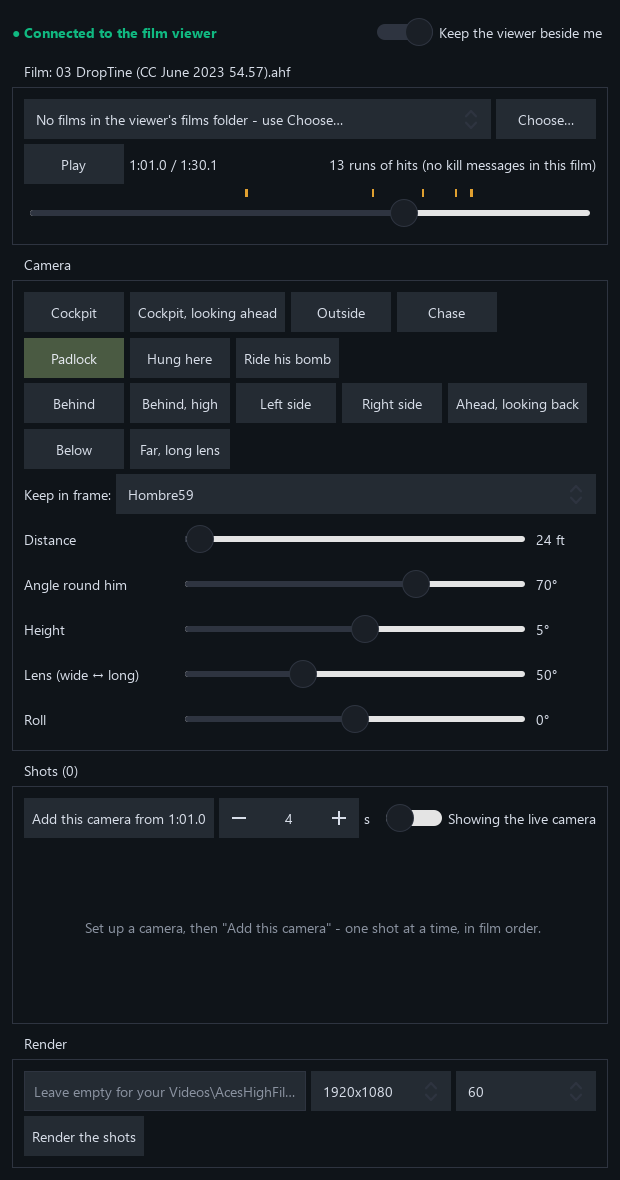
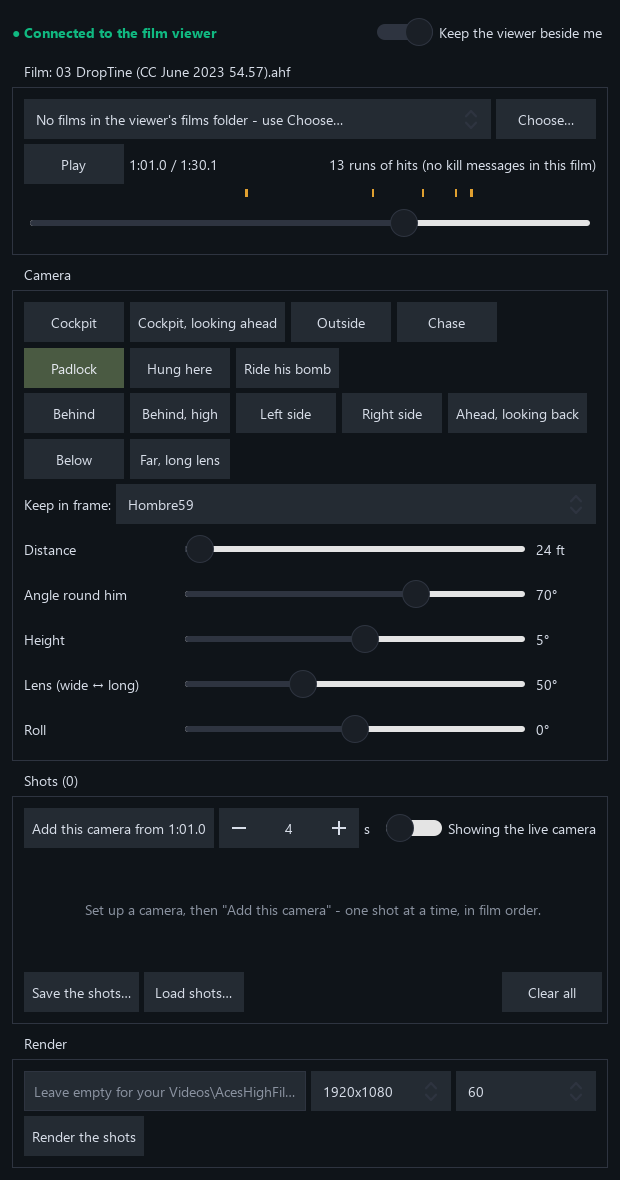
Shot timing (nudge start, change length), Retake, delete; shots as olive bars on the timeline and your drops in green; save/load/clear the shot list; manual and pictures updated

diff --git a/qml/Main.qml b/qml/Main.qml
@@ -62,6 +62,16 @@ ApplicationWindow {
     }
     Timer { id: filmsAsked; interval: 5000 }
 
+    // A shot list saved beside the film (plain JSON: its shots and their cameras), to come back to or share.
+    function localPath(url) { return decodeURIComponent(url.toString().replace(/^file:\/\/\//, "")).replace(/\//g, "\\") }
+    FileDialog {
+        id: planSave; title: "Save the shots"; fileMode: FileDialog.SaveFile; nameFilters: ["Shot lists (*.shots.json)"]
+        onAccepted: { let p = localPath(selectedFile); if (!p.endsWith(".shots.json")) p += ".shots.json"; core.invoke("savePlan", {path: p}) }
+    }
+    FileDialog {
+        id: planLoad; title: "Load shots"; nameFilters: ["Shot lists (*.shots.json)"]
+        onAccepted: core.invoke("loadPlan", {path: localPath(selectedFile)})
+    }
     FileDialog {
         id: filmDialog
         title: "Choose a film"
@@ -108,17 +118,29 @@ ApplicationWindow {
                     Label { text: myKills > 0 ? myKills + " kills" : myHits > 0 ? myHits + " runs of hits (no kill messages in this film)" : "" }
                 }
                 // The timeline: scrub with quick rough seeks, an exact seek where it's let go. Marks above it:
-                // red your kills (grey others'), orange your hits, blue landings. Click one to go a few seconds before.
+                // red your kills (grey others'), amber your hits, green your bomb/rocket drops, blue landings - click
+                // one to go a few seconds before. Your shots are the olive bars under them - click one to go to it.
                 Item {
-                    Layout.fillWidth: true; height: 44
+                    Layout.fillWidth: true; height: 54
+                    Repeater {
+                        model: st.shots || []
+                        Rectangle {
+                            x: st.length > 0 ? (modelData.start / st.length) * parent.width : 0; y: 18
+                            width: st.length > 0 ? Math.max(3, modelData.duration / st.length * parent.width - 1) : 0; height: 7; radius: 2
+                            color: theme.olive; border.color: Qt.lighter(theme.olive, 1.4)
+                            ToolTip.visible: sa.containsMouse; ToolTip.text: clock(modelData.start) + "  " + modelData.label + ", " + modelData.duration.toFixed(1) + " s"
+                            MouseArea { id: sa; anchors.fill: parent; hoverEnabled: true; onClicked: core.invoke("seek", {time: modelData.start}) }
+                        }
+                    }
                     Repeater {
                         model: win.marks
                         Rectangle {
-                            readonly property bool mine: modelData.killer === st.me || modelData.shooter === st.me
+                            readonly property bool mine: modelData.killer === st.me || modelData.shooter === st.me || (modelData.kind === "drop" && modelData.who === st.me)
                             visible: modelData.kind === "kill" || mine || modelData.kind === "land"
                             x: st.length > 0 ? (modelData.t / st.length) * (parent.width - 2) : 0; y: 0
                             width: modelData.kind === "kill" ? 3 : 2; height: modelData.kind === "kill" ? 14 : 8
-                            color: modelData.kind === "kill" ? (mine ? theme.red : theme.muted) : modelData.kind === "impact" ? theme.amber : theme.blue
+                            color: modelData.kind === "kill" ? (mine ? theme.red : theme.muted) : modelData.kind === "impact" ? theme.amber
+                                 : modelData.kind === "drop" ? theme.green : theme.blue
                             ToolTip.visible: ma.containsMouse; ToolTip.text: clock(modelData.t) + "  " + modelData.text
                             MouseArea { id: ma; anchors.fill: parent; anchors.margins: -3; hoverEnabled: true; onClicked: core.invoke("seek", {time: Math.max(0, modelData.t - 6)}) }
                         }
@@ -203,13 +225,30 @@ ApplicationWindow {
                     model: st.shots || []
                     delegate: RowLayout {
                         width: ListView.view.width
-                        Label { text: clock(modelData.start) + "  +" + modelData.duration.toFixed(1) + " s"; Layout.preferredWidth: 130 }
-                        Label { text: modelData.label; Layout.fillWidth: true; elide: Text.ElideRight }
-                        Button { text: "Go"; onClicked: core.invoke("seek", {time: modelData.start}) }
-                        Button { text: "Use this camera"; onClicked: core.invoke("updateShot", {index: index, useCurrentRig: true}) }
-                        Button { text: "✕"; onClicked: core.invoke("deleteShot", {index: index}) }
+                        // Its start, nudged half a second earlier or later, and its length, half a second shorter or longer.
+                        Button { text: "◂"; implicitWidth: 34; ToolTip.visible: hovered; ToolTip.text: "Start half a second earlier"
+                                 onClicked: core.invoke("updateShot", {index: index, start: Math.max(0, modelData.start - 0.5)}) }
+                        Label { text: clock(modelData.start); Layout.preferredWidth: 64; horizontalAlignment: Text.AlignHCenter }
+                        Button { text: "▸"; implicitWidth: 34; ToolTip.visible: hovered; ToolTip.text: "Start half a second later"
+                                 onClicked: core.invoke("updateShot", {index: index, start: modelData.start + 0.5}) }
+                        Button { text: "−"; implicitWidth: 34; ToolTip.visible: hovered; ToolTip.text: "Half a second shorter"
+                                 onClicked: core.invoke("updateShot", {index: index, duration: Math.max(0.5, modelData.duration - 0.5)}) }
+                        Label { text: modelData.duration.toFixed(1) + " s"; Layout.preferredWidth: 50; horizontalAlignment: Text.AlignHCenter }
+                        Button { text: "+"; implicitWidth: 34; ToolTip.visible: hovered; ToolTip.text: "Half a second longer"
+                                 onClicked: core.invoke("updateShot", {index: index, duration: modelData.duration + 0.5}) }
+                        Label { text: modelData.label; Layout.fillWidth: true; Layout.minimumWidth: 90; elide: Text.ElideRight; leftPadding: 6 }
+                        Button { text: "Go"; implicitWidth: 52; onClicked: core.invoke("seek", {time: modelData.start}) }
+                        Button { text: "Retake"; implicitWidth: 76; ToolTip.visible: hovered; ToolTip.text: "Give this shot the camera you have set up now"
+                                 onClicked: core.invoke("updateShot", {index: index, useCurrentRig: true}) }
+                        Button { text: "✕"; implicitWidth: 34; ToolTip.visible: hovered; ToolTip.text: "Delete this shot"; onClicked: core.invoke("deleteShot", {index: index}) }
                     }
                     Label { anchors.centerIn: parent; visible: parent.count === 0; color: theme.muted; text: "Set up a camera, then \"Add this camera\" - one shot at a time, in film order." }
+                }
+                RowLayout {
+                    Button { text: "Save the shots…"; enabled: (st.shots || []).length > 0; onClicked: planSave.open() }
+                    Button { text: "Load shots…"; onClicked: planLoad.open() }
+                    Item { Layout.fillWidth: true }
+                    Button { text: "Clear all"; enabled: (st.shots || []).length > 0; onClicked: core.invoke("clearShots") }
                 }
             }
         }

diff --git a/docs/MANUAL.md b/docs/MANUAL.md
@@ -32,9 +32,11 @@ other windows and minimise together. Turn it off to place the viewer yourself.
   settles on the exact moment. The marks above it:
   - **red** - your kills (grey: other pilots' kill messages the film holds);
   - **amber** - your hits on another aircraft;
+  - **green** - your bombs, rockets and torpedoes being dropped (where to start **Ride his bomb**);
   - **blue** - landings.
 
-  Point at a mark to see what it is, click it to jump to a few seconds before. Some films (squad nights, events)
+  Point at a mark to see what it is, click it to jump to a few seconds before. Your shots show as **olive bars** just
+  under the marks: click one to go to it. Some films (squad nights, events)
   have no kill messages; then your hits show where the fights were, and the count says so.
 
 ## The camera
@@ -80,10 +82,21 @@ A film is a list of shots, each a camera from one moment to the next.
 
 ![Three shots: outside behind, the cockpit, then outside from the right](img/shots.png)
 
-Each shot in the list has **Go** (jump to it), **Use this camera** (replace its camera with the live one - set up
-something better, then press it) and **✕** (delete). The switch beside **Add** flips between **Showing the live
-camera** (what you're setting up) and **Playing the shots** (press Play to watch your cut). Between and after your
-shots the viewer shows the cockpit as you flew it.
+Each shot in the list has:
+
+| Control | What it does |
+|---|---|
+| ◂ ▸ | Start the shot half a second earlier or later. |
+| − + | Make it half a second shorter or longer. |
+| Go | Jump to the shot's start. |
+| Retake | Give the shot the camera you have set up now - set up something better, then press it. |
+| ✕ | Delete the shot. |
+
+The switch beside **Add** flips between **Showing the live camera** (what you're setting up) and **Playing the shots**
+(press Play to watch your cut). Between and after your shots the viewer shows the cockpit as you flew it.
+
+**Save the shots…** keeps the list in a file (`.shots.json`) to come back to later or share; **Load shots…** brings one
+back; **Clear all** empties the list.
 
 ## Render
 
